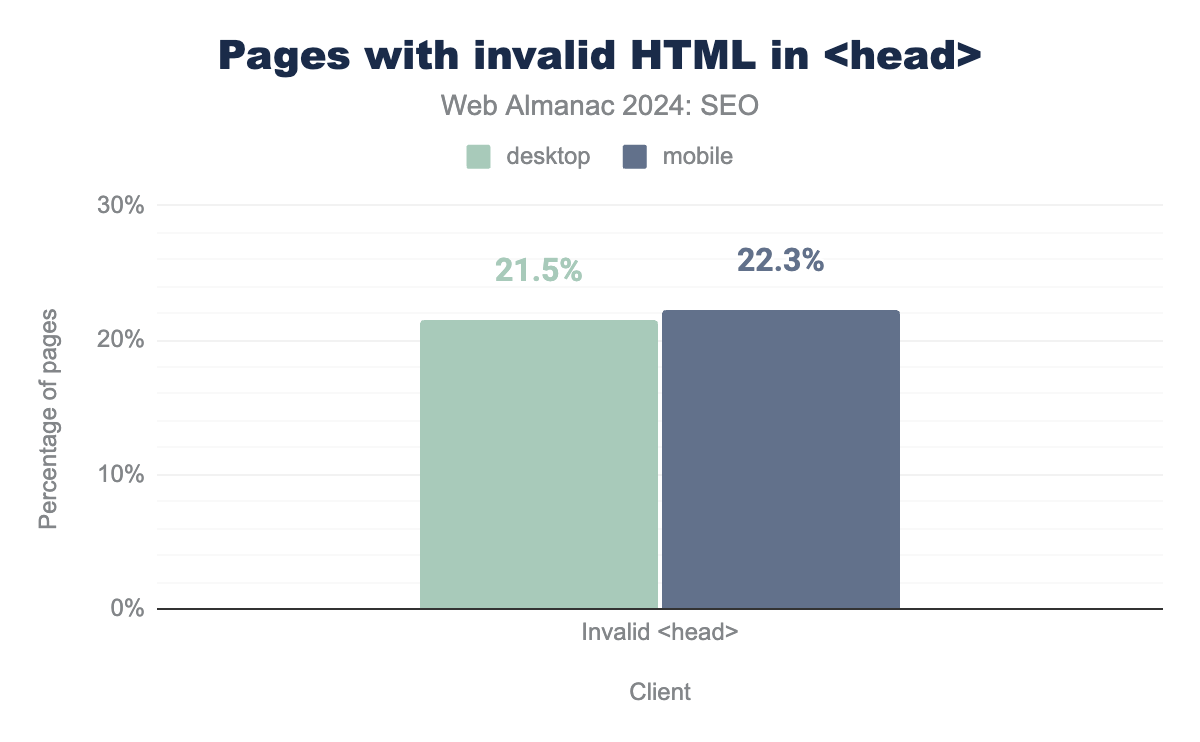
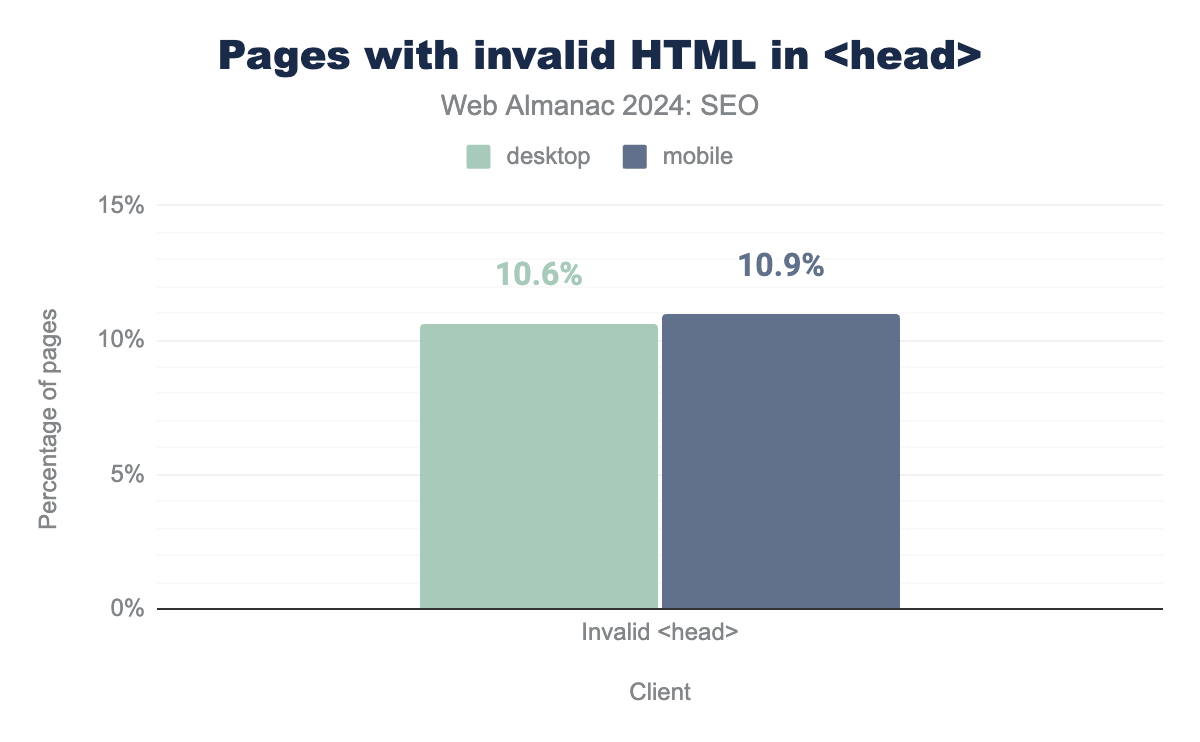
Fix SEO invalid stat

diff --git a/src/content/en/2024/seo.md b/src/content/en/2024/seo.md
@@ -18,8 +18,8 @@ featured_stat_1: 70%
 featured_stat_label_1: Pages with `<h1>` elements (of which 6% are empty).
 featured_stat_2: 2.7%
 featured_stat_label_2: Pages with `GPTBot` directives in `robots.txt`—the most common AI crawler found.
-featured_stat_3: 28%
-featured_stat_label_3: Desktop pages with invalid `<head>` element due to `<img>` elements.
+featured_stat_3: 10.9%
+featured_stat_label_3: Mobile pages with invalid `<head>` element.
 doi: 10.5281/zenodo.14245177
 ---
 
@@ -274,18 +274,18 @@ The impact of a prematurely closed `<head>` is often difficult to catch since th
 {{ figure_markup(
   image="pages-with-invalid-HTML-in-head.png",
   caption="Invalid HTML in `<head>`.",
-  description="A bar chart depicting 21.5% of desktop and 22.3% of mobile pages have invalid HTML elements in <head> of the page.",
+  description="A bar chart depicting 10.6% of desktop and 10.9% of mobile pages have invalid HTML elements in `<head>` of the page.",
   chart_url="https://docs.google.com/spreadsheets/d/e/2PACX-1vTitOH-aAprInUucdKE0WM41rpV2ri7KW90ZH9VGH2QLbvgKDq6tDRPRNJXMx3i0njRGEIZbxwYoKqJ/pubchart?oid=792944292&format=interactive",
   sheets_gid="1932961327",
   sql_file="invalid-head-sites-2024.sql"
   )
 }}
 
-In 2024, 22.3% of mobile pages had `<head>` breaking invalid HTML elements. That represented a 98% increase from 2022's rate of 12.6%. Meanwhile, desktop pages with invalid HTML in the `<head>` increased from 12.7% in 2022 to 21.5% in 2024.
+In 2024, 10.9% of mobile pages had `<head>` breaking invalid HTML elements. That represented a 12% decrease from 2022's rate of 12.6%. Meanwhile, desktop pages with invalid HTML in the `<head>` decreased from 12.7% in 2022 to 10.6% in 2024.
 
 {{ figure_markup(
   caption="mobiles pages contained invalid HTML elements in the `<head>`",
-  content="22%",
+  content="10.9%",
   classes="big-number",
   sheets_gid="1932961327",
   sql_file="invalid-head-sites-2024.sql"
